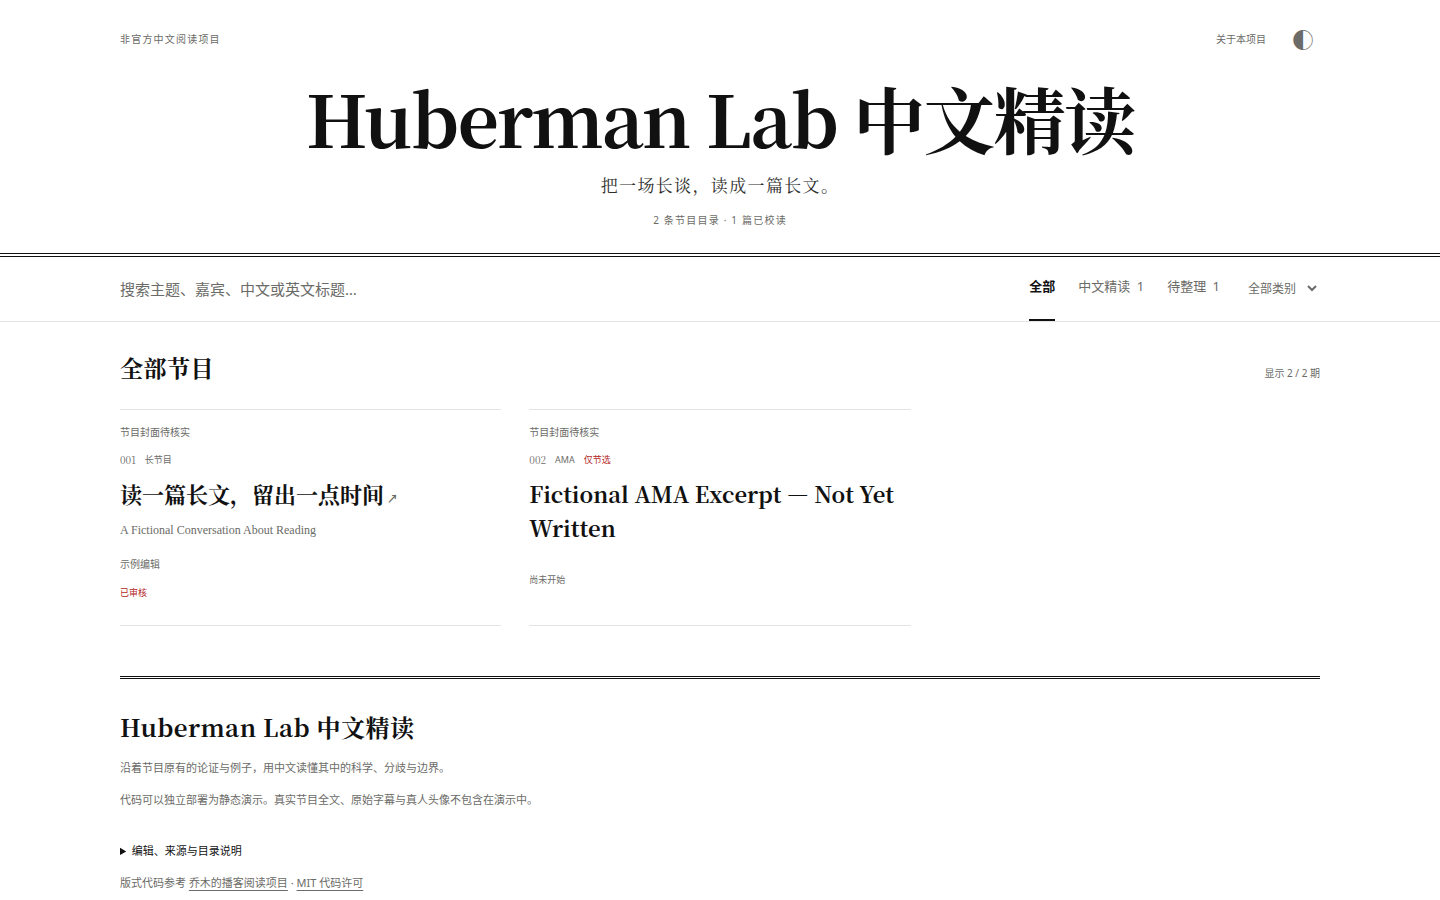
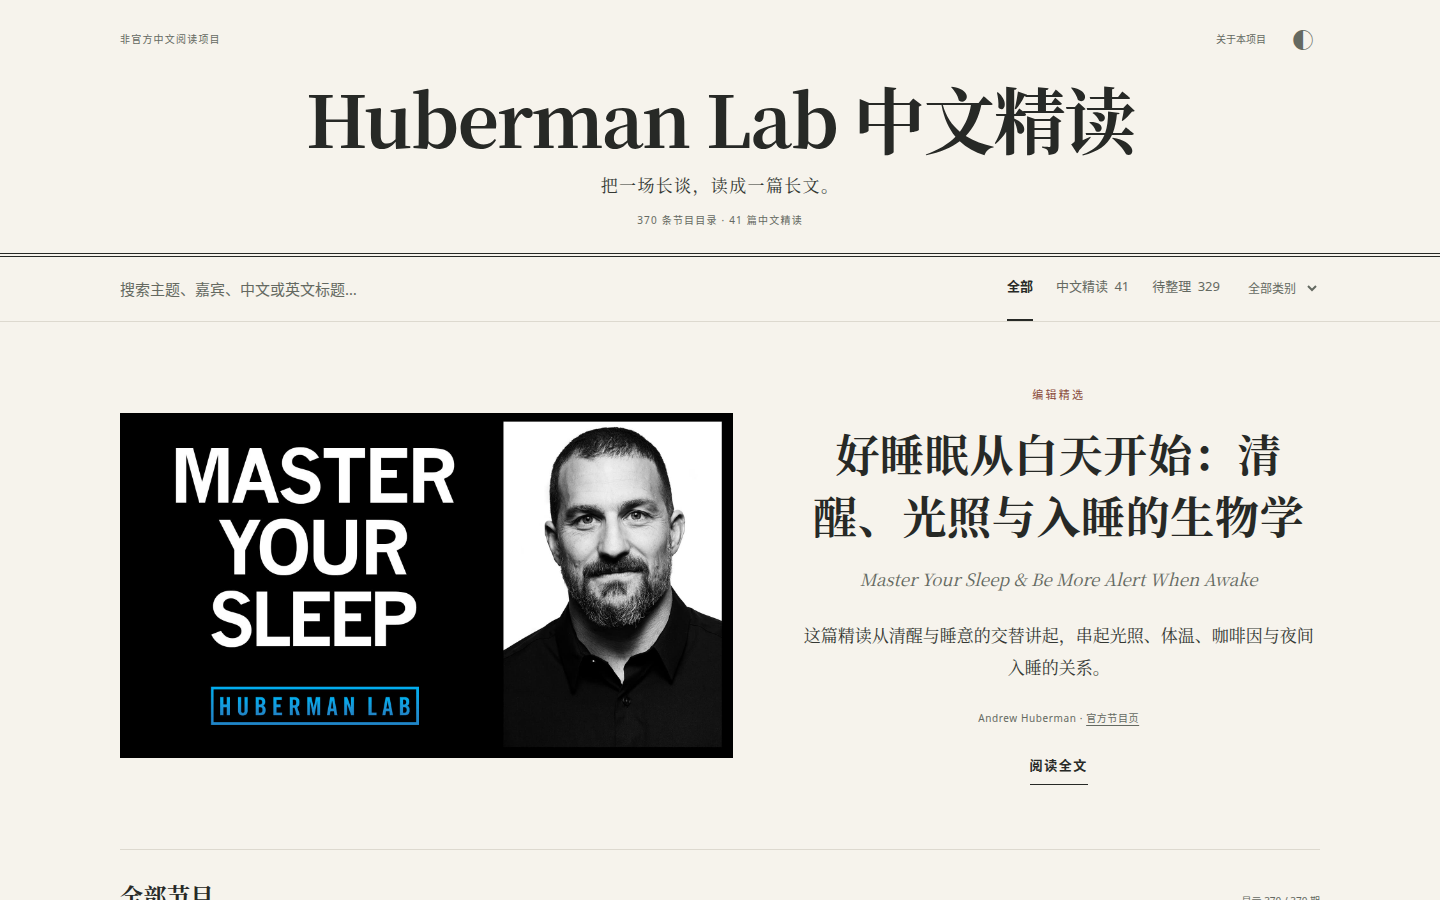
Replace the README homepage shot with the live catalog.
The image is the first 1440x900 screen of the public site, after fonts and the featured cover have loaded.

diff --git a/README.md b/README.md
@@ -4,7 +4,7 @@
 
 把 [Huberman Lab](https://www.hubermanlab.com/) 的长访谈整理成中文长文。文章顺着节目原来的顺序，保留核心论证、机制解释、例子和研究限制，去掉广告、寒暄和重复。访谈标明是谁在说；转写里对不上的地方会注明。
 
-![Huberman Lab 中文精读首页：报头、搜索筛选与节目目录](docs/screenshot-home.png)
+![Huberman Lab 中文精读首页：报头、搜索筛选，以及编辑精选《好睡眠从白天开始》的节目封面](docs/screenshot-home.png)
 
 [**在线阅读 →**](https://huberman-reading-001.tolsonhuddy.chatgpt.site)
 
